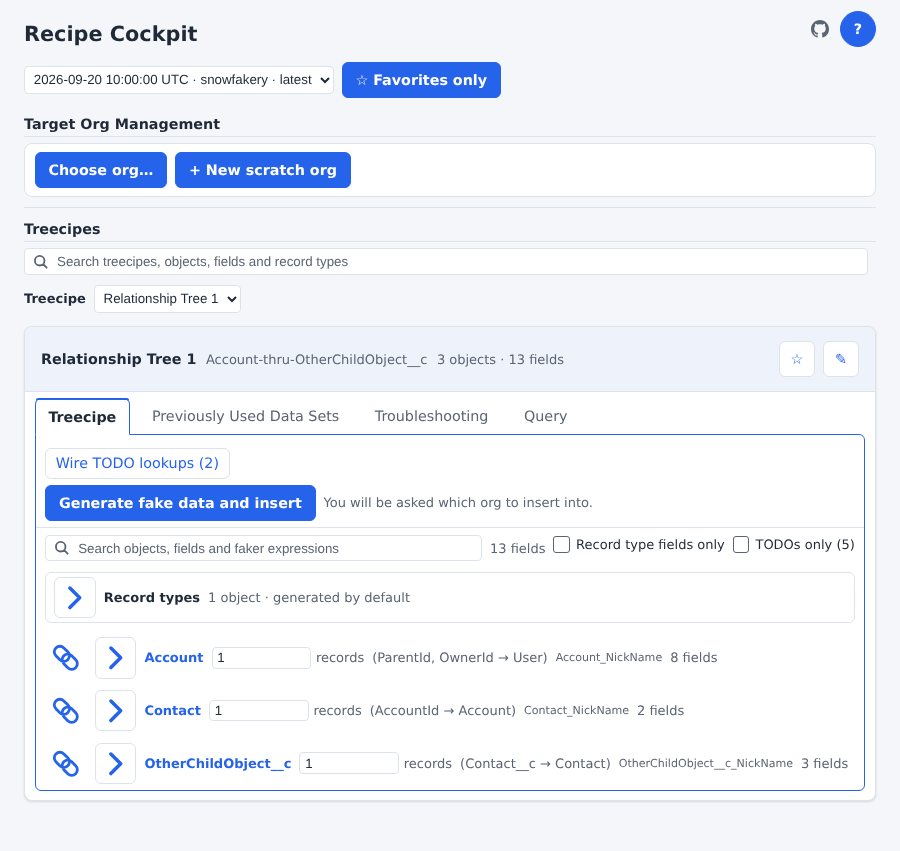
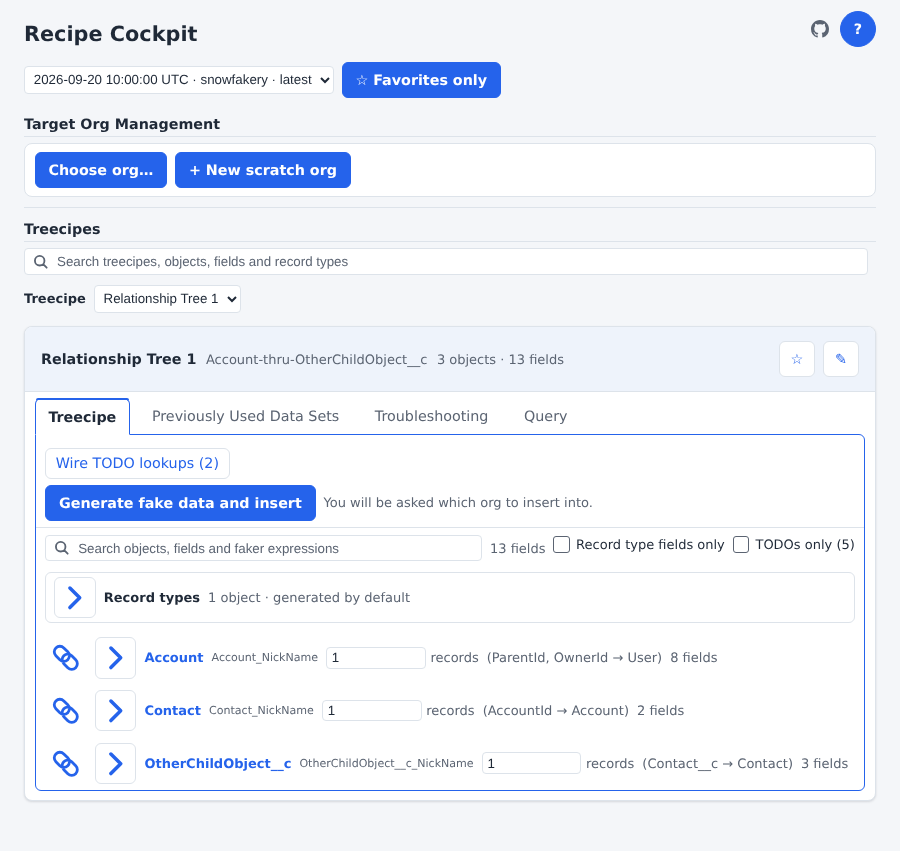
Recipe Cockpit: nickname straight after the object name, back-link styled by its kind (#380 review)
- Draw the nickname right after the object name, before the count box and lookups,
  and adjust the #255 count box placement test to allow for it.
- Make the back-link a compact secondary button, so only its kind sets its colours (#363).
- Read only a field value's first line before deciding it is not a nickname.
- Move the document click listener out from under the scroll listener's comment.
- Re-take the guide screenshots.

Claude-Session: https://claude.ai/code/session_016m8h1eK874sErPJ4FJBrzX

Changed region(s): [[0.3422, 0.886, 0.8711, 0.9166], [0.2178, 0.7638, 0.7467, 0.7944], [0.2178, 0.8249, 0.6844, 0.8555]]

diff --git a/src/treecipe/src/RecipeCockpitService/RecipeCockpitService.ts b/src/treecipe/src/RecipeCockpitService/RecipeCockpitService.ts
@@ -12578,13 +12578,7 @@ ${this.buildPaletteCustomProperties()}
         position: relative;
         z-index: 2;
     }
-    .treeNicknameBackLink.sdtButton-link {
-        font-size: 0.85em;
-        padding: 0 0.4rem;
-        color: var(--sdt-chip-text);
-        background-color: var(--sdt-chip-bg);
-        border-radius: 0.6rem;
-    }
+    .treeNicknameBackLink { font-size: 0.85em; }
     .treeObjectBody { padding-bottom: 0.25rem; }
     .treeField { padding: 0.25rem 0.6rem 0.25rem 2.1rem; }
     .treeFieldHeader .fieldType {
@@ -13656,12 +13650,15 @@ ${this.buildPaletteCustomProperties()}
     // A VALUE THAT IS ONE NICKNAME AND NOTHING ELSE, BUT FOR COMMENT LINES UNDER IT (#194'S RECORD TYPE BLOCKS NOTE); ELSE null
     function readReferencedNickname(recipeValue) {
 
-        const valueLines = String(recipeValue || '').split('\\n');
-        const firstLine = valueLines[0].trim();
+        // THE FIRST LINE ALONE DECIDES MOST FIELDS, SO A LONG EXPRESSION IS NEVER SPLIT WHOLE
+        const valueText = String(recipeValue || '');
+        const firstLineEnd = valueText.indexOf('\\n');
+        const firstLine = (firstLineEnd === -1 ? valueText : valueText.slice(0, firstLineEnd)).trim();
 
         if (!isReferenceableNickname(firstLine)) { return null; }
+        if (firstLineEnd === -1) { return firstLine; }
 
-        return valueLines.slice(1).every(function (valueLine) { return valueLine.trim().charAt(0) === '#'; }) ? firstLine : null;
+        return valueText.slice(firstLineEnd + 1).split('\\n').every(function (valueLine) { return valueLine.trim().charAt(0) === '#'; }) ? firstLine : null;
 
     }
 
@@ -13937,7 +13934,7 @@ ${this.buildPaletteCustomProperties()}
     function buildNicknameBackLink(treeState, ownerState) {
 
         const nickname = nicknameOfObject(ownerState.object);
-        const backLinkElement = createButton('link', 'treeNicknameBackLink', '↖ ' + nickname);
+        const backLinkElement = createButton('secondary', 'treeNicknameBackLink', '↖ ' + nickname, 'compact');
 
         backLinkElement.setAttribute('title', 'Go to ' + ownerState.object.objectApiName + ', which holds ' + nickname);
         backLinkElement.setAttribute('aria-label', 'Go to ' + nickname + ', the ' + ownerState.object.objectApiName + ' this field points to');
@@ -15680,15 +15677,6 @@ ${this.buildPaletteCustomProperties()}
 
         objectHeaderElement.appendChild(buildSourceLink('treeObjectName', object.objectApiName, object.recipeFilePath, object.lineNumber));
 
-        // A COUNT BOX ONLY WHERE THE HOST CAN STORE ONE: A CARD WITH A FOLDER, AN OBJECT TOLD APART, WITH A READABLE "count:" (#255)
-        if (tree.folderName && !object.iteration && !object.hasIndistinctOccurrences && typeof object.recordCount === 'number') {
-            objectHeaderElement.appendChild(buildRecordCountElement(treeObjectState));
-        }
-
-        if (formatParentLookups(treeObject)) {
-            objectHeaderElement.appendChild(treeObjectState.lookupsElement);
-        }
-
         // FILLED WHEN THE CARD'S TREECIPE TAB IS BUILT, SINCE WHETHER IT OPENS A LIST DEPENDS ON THE WHOLE CARD (#380)
         if (nicknameOfObject(object)) {
             treeObjectState.nicknameSlotElement = createElement('span', 'treeNicknameSlot');
@@ -15698,6 +15686,15 @@ ${this.buildPaletteCustomProperties()}
         if (object.iteration) {
             const parentName = object.iteration.parentNickname || object.iteration.parentObjectApiName;
             if (parentName) { objectHeaderElement.appendChild(createElement('span', 'treeIteration muted', 'nested under ' + parentName)); }
+        }
+
+        // A COUNT BOX ONLY WHERE THE HOST CAN STORE ONE: A CARD WITH A FOLDER, AN OBJECT TOLD APART, WITH A READABLE "count:" (#255)
+        if (tree.folderName && !object.iteration && !object.hasIndistinctOccurrences && typeof object.recordCount === 'number') {
+            objectHeaderElement.appendChild(buildRecordCountElement(treeObjectState));
+        }
+
+        if (formatParentLookups(treeObject)) {
+            objectHeaderElement.appendChild(treeObjectState.lookupsElement);
         }
 
         objectHeaderElement.appendChild(treeObjectState.exclusionElement);
@@ -19500,7 +19497,6 @@ ${this.buildPaletteCustomProperties()}
         postRenderFailure('runtime', rejectionEvent && rejectionEvent.reason);
     });
 
-    // A SCROLL FIRES PER FRAME, AND A SAVE WALKS EVERY CARD, SO A RUN OF THEM IS SAVED ONCE
     // A CLICK ANYWHERE BUT THE OPEN NICKNAME LIST OR ITS BUTTON CLOSES IT; CAPTURED, SO A LISTENER THAT STOPS THE CLICK CANNOT KEEP IT OPEN
     document.addEventListener('click', function (clickEvent) {
         if (!openNicknameMenu) { return; }
@@ -19508,6 +19504,7 @@ ${this.buildPaletteCustomProperties()}
         closeNicknameMenu(false);
     }, true);
 
+    // A SCROLL FIRES PER FRAME, AND A SAVE WALKS EVERY CARD, SO A RUN OF THEM IS SAVED ONCE
     window.addEventListener('scroll', function () {
 
         if (scrollSaveTimer !== null) { return; }

diff --git a/src/treecipe/src/RecipeCockpitService/tests/RecipeCockpitNicknameReferences.test.ts b/src/treecipe/src/RecipeCockpitService/tests/RecipeCockpitNicknameReferences.test.ts
@@ -129,6 +129,22 @@ describe('RecipeCockpitService, nicknames and the fields that point to them (#38
 
         });
 
+        it('draws the nickname right after the object name, before the count box and lookups', () => {
+
+            const panel = renderModel(loadModel());
+            const headerChildren = objectElementNamed(panel, 'Contact_NickName').children[0].children;
+            const nameIndex = headerChildren.findIndex((element: any) => element.classList.contains('treeObjectName'));
+
+            expect(headerChildren[nameIndex + 1].classList.contains('treeNicknameSlot')).toBe(true);
+            expect(headerChildren[nameIndex + 1].children[0].textContent).toBe('Contact_NickName');
+
+            const iterationHeaderChildren = objectElementNamed(panel, 'Account_child_NickName').children[0].children;
+            const iterationNameIndex = iterationHeaderChildren.findIndex((element: any) => element.classList.contains('treeObjectName'));
+            expect(iterationHeaderChildren[iterationNameIndex + 1].classList.contains('treeNicknameSlot')).toBe(true);
+            expect(iterationHeaderChildren[iterationNameIndex + 2].textContent).toBe('nested under Account_NickName');
+
+        });
+
         it('makes a nickname a list button only where a field points to it, and plain text where none does', () => {
 
             const panel = renderModel(loadModel());

diff --git a/src/treecipe/src/RecipeCockpitService/tests/RecipeCockpitObjectCounts.test.ts b/src/treecipe/src/RecipeCockpitService/tests/RecipeCockpitObjectCounts.test.ts
@@ -897,7 +897,9 @@ describe('RecipeCockpitService -- record counts (#255)', () => {
             const countBox = countBoxOf(panel, contact);
 
             expect(nameIndex).toBeGreaterThanOrEqual(0);
-            expect(headerChildren[nameIndex + 1].classList.contains('treeRecordCount')).toBeTrue();
+            // THE OBJECT'S NICKNAME SITS BETWEEN ITS NAME AND THE COUNT BOX (#380)
+            const countIndex = headerChildren[nameIndex + 1].classList.contains('treeNicknameSlot') ? nameIndex + 2 : nameIndex + 1;
+            expect(headerChildren[countIndex].classList.contains('treeRecordCount')).toBeTrue();
             expect(countBox.tagName).toBe('input');
             expect(countBox.attributes.type).toBe('text');
             expect(countBox.attributes.inputmode).toBe('numeric');

diff --git a/CLAUDE.md b/CLAUDE.md
@@ -307,7 +307,7 @@ User runs command (Cmd+Shift+P)
 - **The Recipe Cockpit writes a recipe by patching LINES, never by round-tripping YAML** — both backends emit recipes as template strings, and the `### TODO` comments in them carry meaning (which record type to pick, which lookup needs a reference) that `js-yaml` drops on `dump`, so a load-and-dump is lossy by construction. `RecipeCockpitRecipeWriter` is pure and imports NOTHING (a test fails if it gains an import): text in, text plus an `edit` or a typed refusal out. It holds to the same layout contract `parseRecipeSource` reads — the reader IS its `scanRecipeObjects` — and every line outside the touched field's own lines is byte-identical afterwards, line ending included — new lines take the ending of the line they follow, and a missing final newline stays missing. The READER takes the first occurrence of an object or field, which is right for jumping to a line and wrong for changing one, so the WRITER refuses a duplicate object, field, `fields:` block or property rather than guessing which the reader meant. A friend under `friends:` (#46) is the same contract shifted: `scanRecipeObjects` keeps the open objects as a stack, one per level, the object at depth d has its `- object:` at column 4d and every other column (`getObjectLayout`) four spaces deeper per level, and a `- object:` line opens a friend ONLY one level down and only inside its parent's `friends:` block — anywhere else it is an unrecognized line, as it always was. A value handed to `insertField`/`replaceFieldValue` is written as for a top-level object and its continuation lines are moved to the friend's depth, so no caller has to know the depth. `commentOutField` is the removal because it is reversible: the lines sit at the FIELD column (four spaces at the top level) under a `### TODO -- RECIPE COCKPIT -- FIELD COMMENTED OUT -- <field> -- <n> lines` marker (deeper would read as the previous field's continuation), their encoding has one inverse, and `restoreCommentedOutField` gives the original back byte for byte. The COUNT is what bounds a restore — without it a reader's own comment directly below read as more of the field — and restore refuses unless those lines are still exactly what was written — which is why the reader treats a comment at field depth or shallower as ending the FIELD and not the BLOCK. The `yaml` package's comment-preserving `Document` API was the alternative; it is a new runtime dependency and re-flows `${{ }}` scalars, so it would still need every fidelity test. Values and names are validated so no argument can add a line the layout would read as another field or object — and that includes the line breaks the JS split does not see: PyYAML (snowfakery's reader) breaks at U+0085, U+2028 and U+2029, so a value carrying one is refused rather than split. Every call scans the whole file, so bulk edits need a one-scan batch entry point before a slice applies them. `insertFriend` (#197) is the one operation that ADDS an object: it copies the friend's own block from the occurrence above a self-lookup iteration (never its `friends:`), one level deeper, with a nickname no occurrence holds and every value that was the top occurrence's nickname re-pointed at the iteration's, and it reads its result back through `scanRecipeObjects` before answering. `listInsertableFriendObjectApiNames` is what the cockpit's **+** offers, so the panel and the writer share one answer — `parseRecipeSource` calls it for EVERY iteration at every load, so it takes the `buildScannedFriendIndex` built once per scan and must never walk the whole scan per call (that was 18 s at 11,000 objects); it also refuses a copy carrying a lone CR or U+0085/U+2028/U+2029, since text after one would keep its old column; the panel posts `addIterationFriend` with four NAMES, matched against `insertableFriendTargets` (pending/active, keyed by tree, object, nickname and friend, mapped to the host-only recipe file), and the host asks in a modal, writes and reloads focused on the card's Treecipe tab
 - **Wiring a TODO lookup is the cockpit's second recipe WRITE, and offers only what the insert can resolve** (#151) — `RecipeCockpitRecipeWriter.listLookupWirings` is the one rule: a field whose ONE line is exactly `RelationshipService.referenceIdRequiredTodo` (alone or with the ` -- <Parent>` a nested tree appends, `REFERENCE_ID_REQUIRED_TODO_PATTERN`; a test holds the two together) of a lookup the card's `parentLookups` names, wireable to the nickname of an ANCESTOR occurrence or of an occurrence of the parent at a strictly LOWER `RelationshipDetail.level` (inserted first), held by exactly one occurrence in the file and not a YAML boolean or null (`YAML_NON_STRING_PLAIN_SCALAR_PATTERN`: `Yes`, `Off`, `null`… would load as something the insert's whole-string swap never matches). An object written more than once is offered only when EVERY occurrence has a distinct nickname, so the writer never lists a wiring for a row `parseRecipeSource` draws as `hasIndistinctOccurrences`. A self-lookup's top record, a cycle and a parent with no recipe are never offered. `wireLookups` re-derives that list from the text at the click and refuses the WHOLE batch if any request is not on it, then replaces each field's line only (line count unchanged, endings kept) and reads the result back through ONE startIndex index — a per-edit search of the scan was 14 s for a 33,000-lookup wire-all. The model carries `tree.lookupWirings` only when non-empty, built at load from the card's recipe file (the one its generate button runs), from the text `readRecipeSourceFiles` already read (`recipeTextsByFilePath`); the panel posts `wireLookup {treeKey, objectApiName, objectNickname?, fieldApiName}` or `wireAllLookups {treeKey}` (every target with exactly ONE candidate), matched against `wireableLookupTargets` (pending/active, built, promoted and emptied at the same sites as `insertableFriendTargets`). The host picks the nickname (`showQuickPick` only when there is more than one), confirms in a modal, writes and reloads onto the card's Treecipe tab. One write at a time (`wireLookupState`, replayed), and **+** waits for it. The value written is a bare nickname, which both backends leave as a string and `updateLookupReferencesInCollectionApiJson` swaps for an Id. The wrapper records every lookup as the TODO forever, so `attachRecipeSources` shows the FILE's value on a lookup row whose wrapper value starts with that TODO
 - **Adding a lookup's standard parent is the cockpit's third recipe WRITE, and the template is per BACKEND** (#294) — each backend's `getMinimumRequiredFieldsTemplate()` (on `IRecipeFakerService`) names the fields a standard parent needs to insert (Account, Contact, Lead, Opportunity, and Case with none) and takes each VALUE from that backend's own `getOOTBObjectApiNameToFieldApiNameMap`, so both have the same objects and fields. A test holds the two together. `RecipeCockpitRecipeWriter.listAddableParentObjects` and `addParentObject` decide by ONE rule (`locateParentObjectAddition`): the field is one line, exactly the REFERENCE ID TODO; the card's `parentLookups` point it at ONE parent (more is `polymorphic-lookup`); that parent has a template (`no-parent-template`) and no block anywhere in the file (`parent-object-already-exists`); and its `RelationshipDetail.level` is strictly LOWER than the object's (`parent-not-inserted-first`). That level is what makes `sortCollectionApiFilesByRelationshipLevel` send it first and #151's `listLookupWirings` accept its nickname. An object written more than once needs a distinct nickname on EVERY occurrence. The block is written at the TOP level, directly above the top-level block holding the lookup, and above the comment that names that object (`# <Object>` or `# <Object> …`, blank lines between it and the header allowed); any other comment (a `# Level N` banner) stays above the new block, with a nickname no occurrence holds, `count: 1`, and no `fields:` line when the template has no fields. The lookup's one line becomes that nickname in the same write. Every other line keeps its bytes and ending, and the result is scanned again. The writer takes the template VALUES as an argument and still imports nothing. The host picks the backend with `VSCodeWorkspaceService.readRecipeFakerService` (an unreadable one refuses) and its template with `RecipeCockpitService.getParentObjectTemplates`. It confirms in a modal and refuses a result naming another parent than the one confirmed. The panel posts `addParentObject` with the same four NAMES as `wireLookup`, matched against `addableParentTargets` (pending/active, built, promoted and emptied at the same sites as `wireableLookupTargets`). It shares #151's one-write lock and `wireLookupState` (`runRecipeLookupWrite`), so the three buttons are held together. The template is never checked against an org: a required field the org adds fails at insert time, in the insert result
-- **A row's nickname lists the fields that point to it, and a field holding one links back; both are drawn from what the panel already has** (#380) — `attachRecipeSources` sets `recipeNickname` on an object WITHOUT iterations whose first occurrence has one nickname (one with iterations carries `nickname`, as before). It is never `nickname`, because five panel messages post `object.nickname` back and the host matches it against nickname-keyed allow-lists. The panel's `ensureNicknameIndex` (once per card, on the Treecipe tab's build, `Object.create(null)`) keys by recipe file AND nickname: an owner is the ONE row holding it, never `hasIndistinctOccurrences`, and the nickname must be a plain name (`/^[A-Za-z][A-Za-z0-9_]*$/`) that `YAML_NON_STRING_PLAIN_SCALAR_PATTERN` (exported by the writer, injected as its `source`) does not match; a user is a field with a `lineNumber` whose value is that whole nickname with only `#` lines under it (`readReferencedNickname`), the insert's whole-string rule. `drawObjectNickname` draws a `secondary` compact `treeNickname` button (`aria-haspopup="menu"`) when a field points to it, else a muted span; the list (`treeNicknameMenu`, `role="menu"`, `link` items, `— excluded` read from the row's `excluded` class) is rebuilt on every open, one at a time (`openNicknameMenu`, cleared by `resetPanelState`), closed by Escape (focus back), Tab, a second click and a CAPTURING `document` click outside. A field row draws `treeNicknameBackLink` (`↖ <nickname>`, chip colours). Both directions go through `revealTreeObjectRow`, which shares `openTreeObjectRow` with #374's `openTreecipesResult`. Nothing is posted, written or saved in the place
+- **A row's nickname lists the fields that point to it, and a field holding one links back; both are drawn from what the panel already has** (#380) — `attachRecipeSources` sets `recipeNickname` on an object WITHOUT iterations whose first occurrence has one nickname (one with iterations carries `nickname`, as before). It is never `nickname`, because five panel messages post `object.nickname` back and the host matches it against nickname-keyed allow-lists. The panel's `ensureNicknameIndex` (once per card, on the Treecipe tab's build, `Object.create(null)`) keys by recipe file AND nickname: an owner is the ONE row holding it, never `hasIndistinctOccurrences`, and the nickname must be a plain name (`/^[A-Za-z][A-Za-z0-9_]*$/`) that `YAML_NON_STRING_PLAIN_SCALAR_PATTERN` (exported by the writer, injected as its `source`) does not match; a user is a field with a `lineNumber` whose value is that whole nickname with only `#` lines under it (`readReferencedNickname`), the insert's whole-string rule. `drawObjectNickname` draws, right after the object name, a `secondary` compact `treeNickname` button (`aria-haspopup="menu"`) when a field points to it, else a muted span; the list (`treeNicknameMenu`, `role="menu"`, `link` items, `— excluded` read from the row's `excluded` class) is rebuilt on every open, one at a time (`openNicknameMenu`, cleared by `resetPanelState`), closed by Escape (focus back), Tab, a second click and a CAPTURING `document` click outside. A field row draws `treeNicknameBackLink` (`↖ <nickname>`, a `secondary` compact button, so its kind alone colours it). Both directions go through `revealTreeObjectRow`, which shares `openTreeObjectRow` with #374's `openTreecipesResult`. Nothing is posted, written or saved in the place
 - **"TODOs only" lists every TODO comment of a card's recipe, and reads them in the ONE scan** (#354) — `scanRecipeObjects` records `todoLineIndexes` per occurrence (a comment whose text starts with `TODO`, whole line or after a value, inside the object's own block; `readTodoCommentText` finds the comment in ONE linear pass, outside YAML quoted scalars and `{{ … }}` templates and their strings, never by a regex over the line, which a lone CR or U+2028 made quadratic; a commented-out field's lines under its marker are not TODOs), and `parseRecipeSource` (`attachRecipeSourceTodos`) puts each on the field whose span holds it or on the entry (object or iteration) when it sits on no field; an indistinct later occurrence's go on the first. `todos` is set on a field, iteration or object ONLY when non-empty, so a recipe without one posts the model it did; a FIELD's TODO carries no `text` when the posted `recipeValue` holds it (`buildFieldTodoViewModels`, which kept 120,000 fields to +1.3–1.5 MB rather than +7.7–10 MB), and TODOs are pushed, never spread, onto their owner; each TODO's line joins `collectOpenableSourceKeys` (not repeated when it is its owner's line). The panel's **TODOs only** check sits beside **Record type fields only**, narrows `applyStructureFilter` with the search, never hides an object ("no TODOs"), counts an object's own TODOs as a match so it opens, is disabled with `RECIPE_COCKPIT_NO_TODOS_NOTE` on a card with none, writes every TODO with `textContent`, and is the place's optional `isTodosOnly`. Nothing is written
 - **A data set records its source by NAME, and the reader never trusts the names** — Run Faker by Recipe writes `BaseArtifactFiles/datasetSource.json` naming the recipe run folder, tree folder and recipe file, taken from the recipe's position under `GeneratedRecipes/` (`null` run and tree for a recipe directly under it). It is a file in the user's workspace, so `DatasetSourceService.readDatasetSource` type-checks every field (`unreadable` otherwise), refuses any name that is empty, carries a separator or is a `..` (or `.`) segment — `my..recipe.yml` and `team..v2` are names, not paths (#185) — and links only a name that matches a run and tree folder on disk (`unknown` otherwise). It never throws: a data set the reader cannot place is a status, not a failure of whatever lists it. A data set from before the file is linked only when its single recipe copy and single wrapper copy agree on a run that is still there — anything ambiguous is `unknown` rather than a guess. Its `origin` is `runFaker` or `createInOrg` (#180), and `orgUsername`, `createdObjectApiName` and `createdRecordIds` are present exactly when it is `createInOrg`. The data set folder takes the first free of `<name>`, `<name>-2`, … with `mkdirSync` as the existence check, and every reader of data set folder names must accept that suffix. The service imports only `fs` and `path`, so the cockpit and any non-vscode tooling can read it
 - **A tree card's history is keyed by the tree's FOLDER NAME, and the panel posts only NAMES** — `history.versions` is every run whose folder carries the tree's folder (`DatasetSourceService.findKnownRecipeRuns`), newest first by timestamp SUFFIX. There is no tab listing them since #265: they are what a data set's row names its version by ("current version", "version of <date>"), so run discovery stays. Previously Used Data Sets lists every data set `linked` to that folder, or `unknown` with a `treeFolderNameHint` ("version unknown"), and everything else is ONE unmatched count in a notice, never guessed onto a card. Runs and data sets are discovered when the model is built (directory listings and the small `datasetSource.json` files); no run's WRAPPER is opened for the history, and a legacy data set's Collections API files are read only when the reader asks (the row's `Show record counts`). A `focusTree` rides on the POSTED copy of a reload's model, never the stored one, or every reveal would replay it. Open, Insert and legacy counts each have their own pending/active allow-list (`IRecipeCockpitTreeHistoryAllowLists`, built from the rendered histories, promoted on `rendered`, emptied on `ready`, a new post and a failure to draw), and each posted name resolves through `IRecipeCockpitTreeHistoryTargets`, a host-only map built with the model — the posted model names no path. Every such path passes `isPathContainedInWorkspace` when the map is built AND, with an existence check, when it is used; a data set gone by then reloads the run with a `focusTree` that re-opens the reader's card and tab. `Insert…` executes `treecipe.insertDataSetBySelectedDirectory` with the folder: its handler takes an optional path, refuses one that is not an existing directory inside the workspace (the command is callable by id), and its registration RETURNS the promise. The card's insert resolves its recipe the same way: the panel posts only the tree key, and `runFakerRecipeFilePathsByTreeKey` (host-only, the current run's single contained `.yml`) resolves it. `treecipe.runFakerByRecipe` takes that path and RETURNS its promise; with a path its handler skips the picker but refuses a non-`.yml` file, one outside `GeneratedRecipes/` or the workspace, a missing file, and a recipe for the other backend (`VSCodeWorkspaceService.readRecipeFakerService`, held by a test to the picker's own walk). The command RESOLVES to the data set folder it wrote (`undefined` for none), and the insert adds that data set in place with `datasetAdded` (#226). The card's own generate-only path is GONE (#375)

diff --git a/CHANGELOG.md b/CHANGELOG.md
@@ -15,6 +15,7 @@ Once a lookup was wired (nested by Generate Treecipe, wired by **Wire to…**, o
 - **Nothing is written or posted.** The recipe file is untouched, no panel message or allow-list changed, and whether a list is open is not saved in the panel place. The model gains one optional field, `recipeNickname`, on an object without iterations (an object with iterations already carries `nickname`). It is not `nickname` because the panel posts `nickname` back and the host matches it against allow-lists that object is not in. The index of who points where is built in the panel, once per card, when its Treecipe tab is built, with no prototype.
 - **Measured** (one card, 100 fields an object, each object's first field wired to the object before it, through the real host build and panel harness): 12,000 fields add 5,160 bytes to a 2.28 MB model, and building the card's tab takes 3–4 ms. 120,000 fields add 51,600 bytes to 22.93 MB, and building the tab takes about 16 ms.
 - **Help and guide.** The ? help and `docs/RECIPE-COCKPIT-GUIDE.md` say, under *Where recipes come from*, what the nickname, its list and the highlighted way back do. All four screenshots were re-taken and now show the nicknames. The fixture's lookups are not wired, so they show as plain text.
+- **Review fixes.** The nickname now sits straight after the object name, before the count box and lookups (an older count box test now allows for it). The back-link is a compact outlined button styled by its kind instead of a link given its own colours. A field's value is no longer split whole just to read its first line. The new document click listener moved out from under the scroll listener's comment.
 - **Tests.** `RecipeCockpitNicknameReferences.test.ts` covers `recipeNickname`, the faker-js nested and self-lookup recipe, a snowfakery recipe before and after a wiring, the list's order, labels and exclusion mark, one list at a time, a click outside, the keys, going to a child (by click and Enter, a search cleared), going back, no host message, and every case that never links (prototype names included). The panel harness gains capturing document listeners. Three existing tests read the nickname from its new element.
 
 ## [3.113.0] - Recipe Cockpit: the Treecipes section shows one treecipe at a time from a dropdown, with one search across every treecipe
